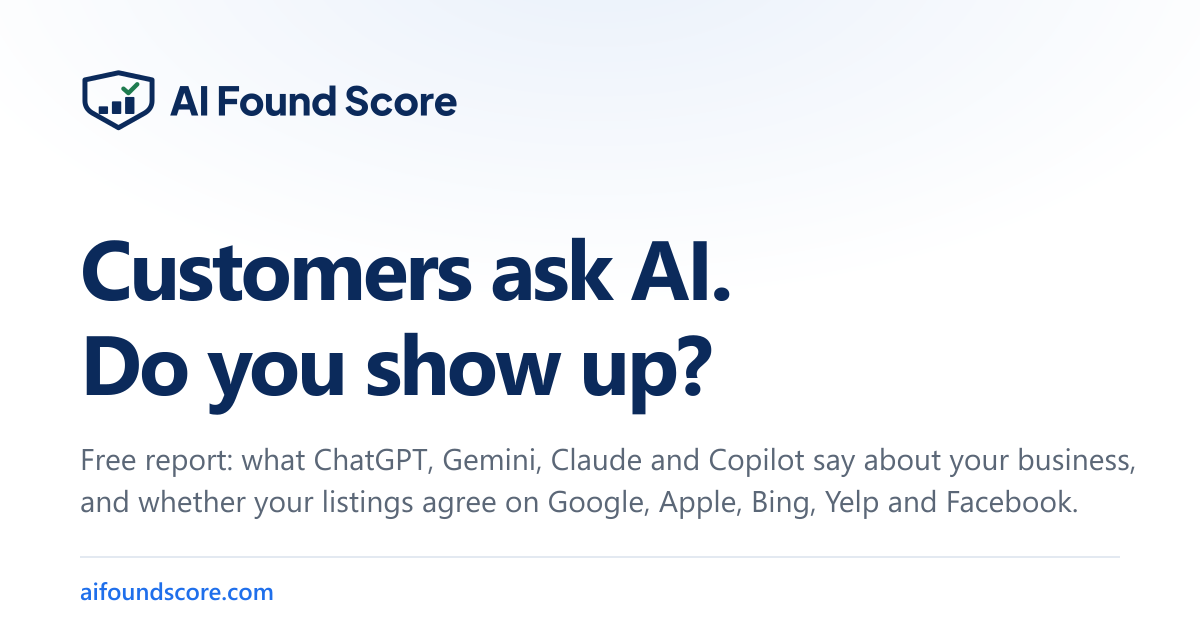
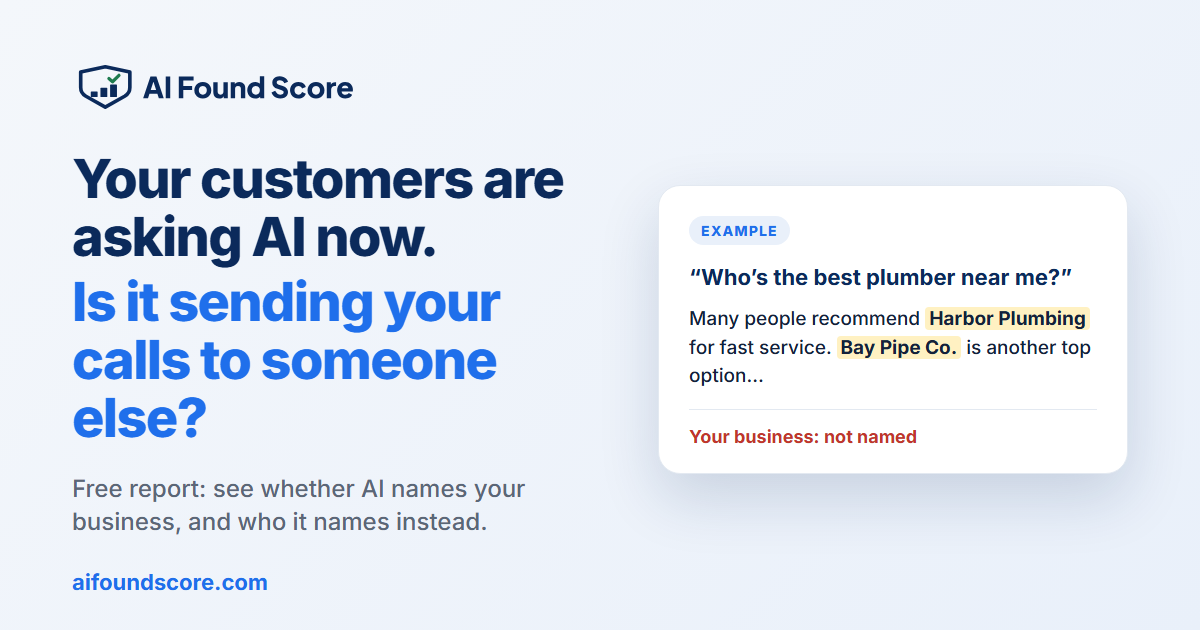
New share image and square Stripe product image; audit description says re-check in 30 days

diff --git a/src/lib/checkout.js b/src/lib/checkout.js
@@ -29,7 +29,7 @@ import { pendingReportStatus } from './auto-scan.js';
 
 export const PRICES = Object.freeze({ xray: 4900, competitor_breakdown: 2500, be_the_answer: 49900 });
 export const PRODUCTS = Object.freeze({
-  xray: { name: 'AI Visibility Audit', description: 'Every answer word for word, every fix with the text to paste, your Fix Kit, and a free re-scan 30 days later.' },
+  xray: { name: 'AI Visibility Audit', description: 'Every answer word for word, every fix with the text to paste, your Fix Kit, and a free re-check in 30 days to see what your fixes changed.' },
   competitor_breakdown: { name: 'Competitor Breakdown', description: 'The top 3 businesses AI names instead of you, side by side with you.' },
   be_the_answer: { name: 'Be the Answer (one year)', description: 'A re-scan every month in up to 3 towns, a monthly email with your next 3 fixes, competitor alerts, your directory checklist and 12 Google posts.' },
 });
@@ -141,8 +141,8 @@ export function sessionForm({ items, credit, token, tier, addons, origin, prepay
       ? `${it.description} Includes $${(credit / 100).toFixed(2)} credit for what you've already paid.`
       : it.description;
     f.set(`line_items[${i}][price_data][product_data][description]`, desc);
-    // Our logo next to each item on Stripe's page (a public https image; skipped for local dev).
-    if (origin.startsWith('https://')) f.set(`line_items[${i}][price_data][product_data][images][0]`, `${origin}/img/og.png`);
+    // Our square product image next to each item on Stripe's page (a public https image; skipped for local dev).
+    if (origin.startsWith('https://')) f.set(`line_items[${i}][price_data][product_data][images][0]`, `${origin}/img/product.png`);
   });
   return f;
 }

diff --git a/src/lib/test/checkout.test.js b/src/lib/test/checkout.test.js
@@ -58,7 +58,7 @@ test('session form: tier and add-ons in metadata, the report token as client_ref
   // Trust on Stripe's own page: the promise under the Pay button, our image on each item.
   assert.match(f.get('custom_text[submit][message]'), /Your \$49 back/);
   assert.ok(f.get('custom_text[submit][message]').length <= 1200);
-  assert.equal(f.get('line_items[0][price_data][product_data][images][0]'), 'https://aifoundscore.com/img/og.png');
+  assert.equal(f.get('line_items[0][price_data][product_data][images][0]'), 'https://aifoundscore.com/img/product.png');
   const bta = priceCheckout({ report: real, tier: 'be_the_answer', payments: [pay('xray', 4900)] });
   assert.match(sessionForm({ ...bta, token: 't', tier: 'be_the_answer', addons: [], origin: 'https://x' }).get('line_items[0][price_data][product_data][description]'), /\$49\.00 credit/);
 });
